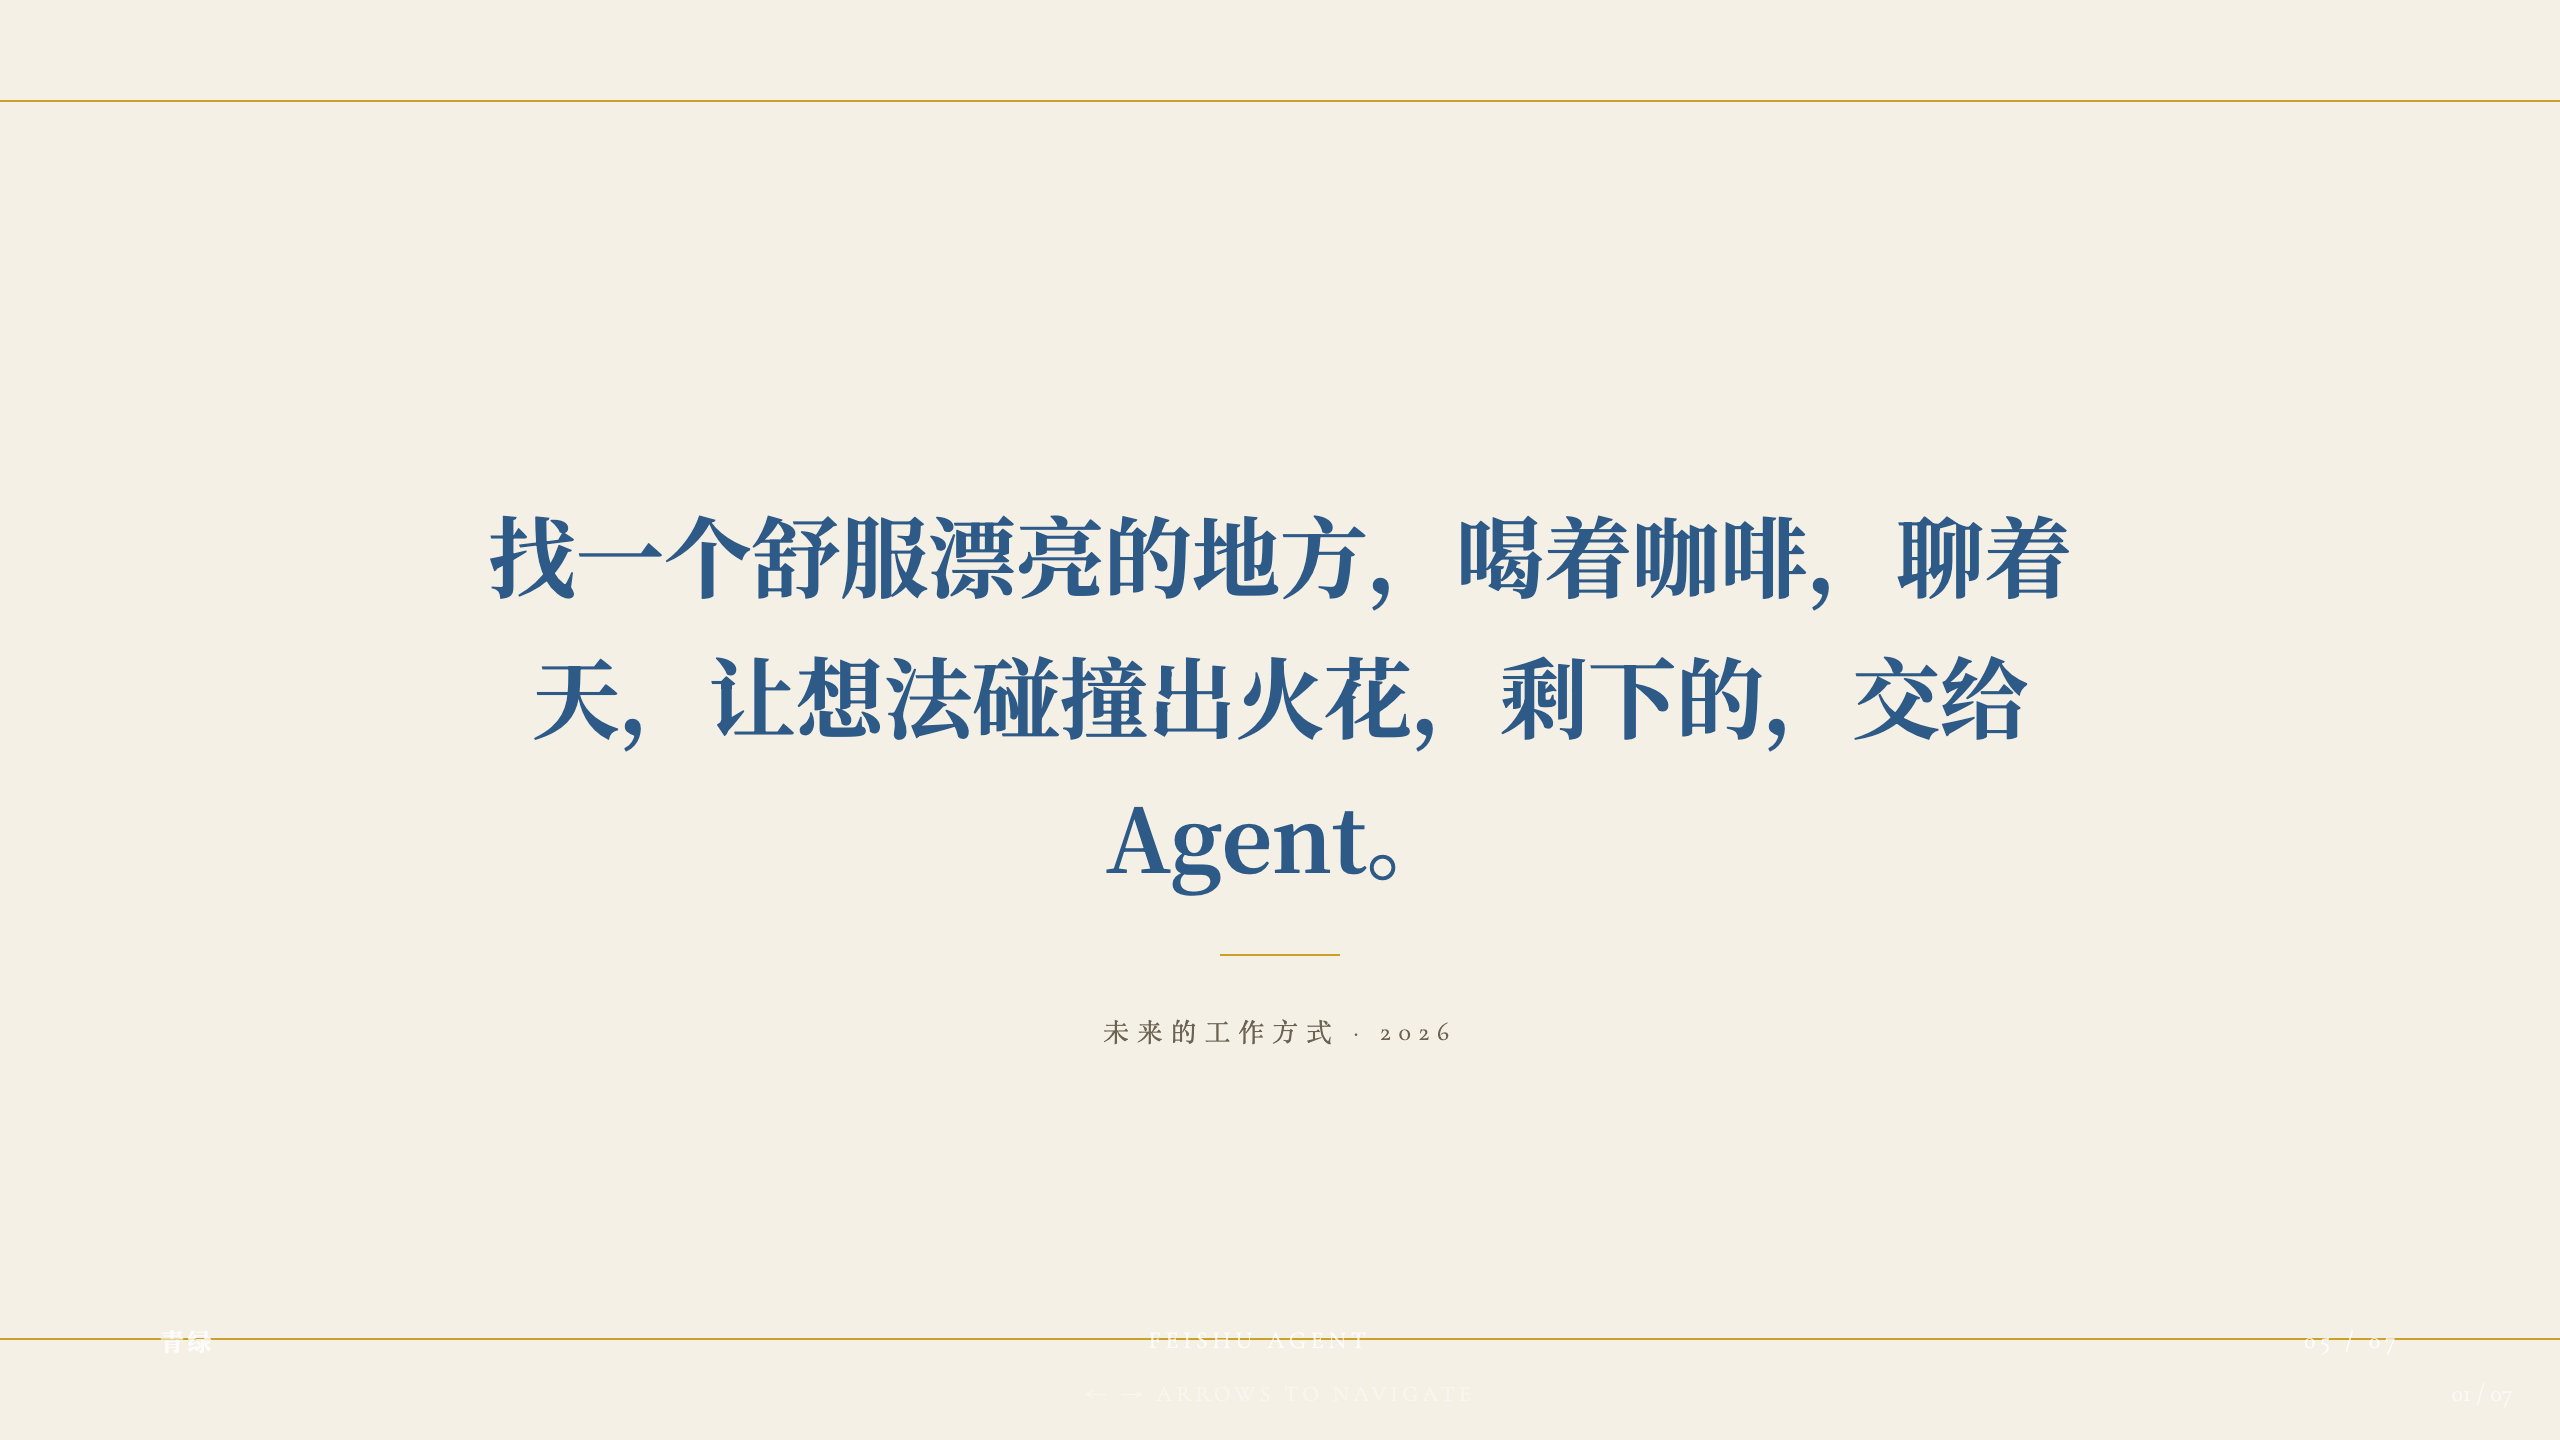
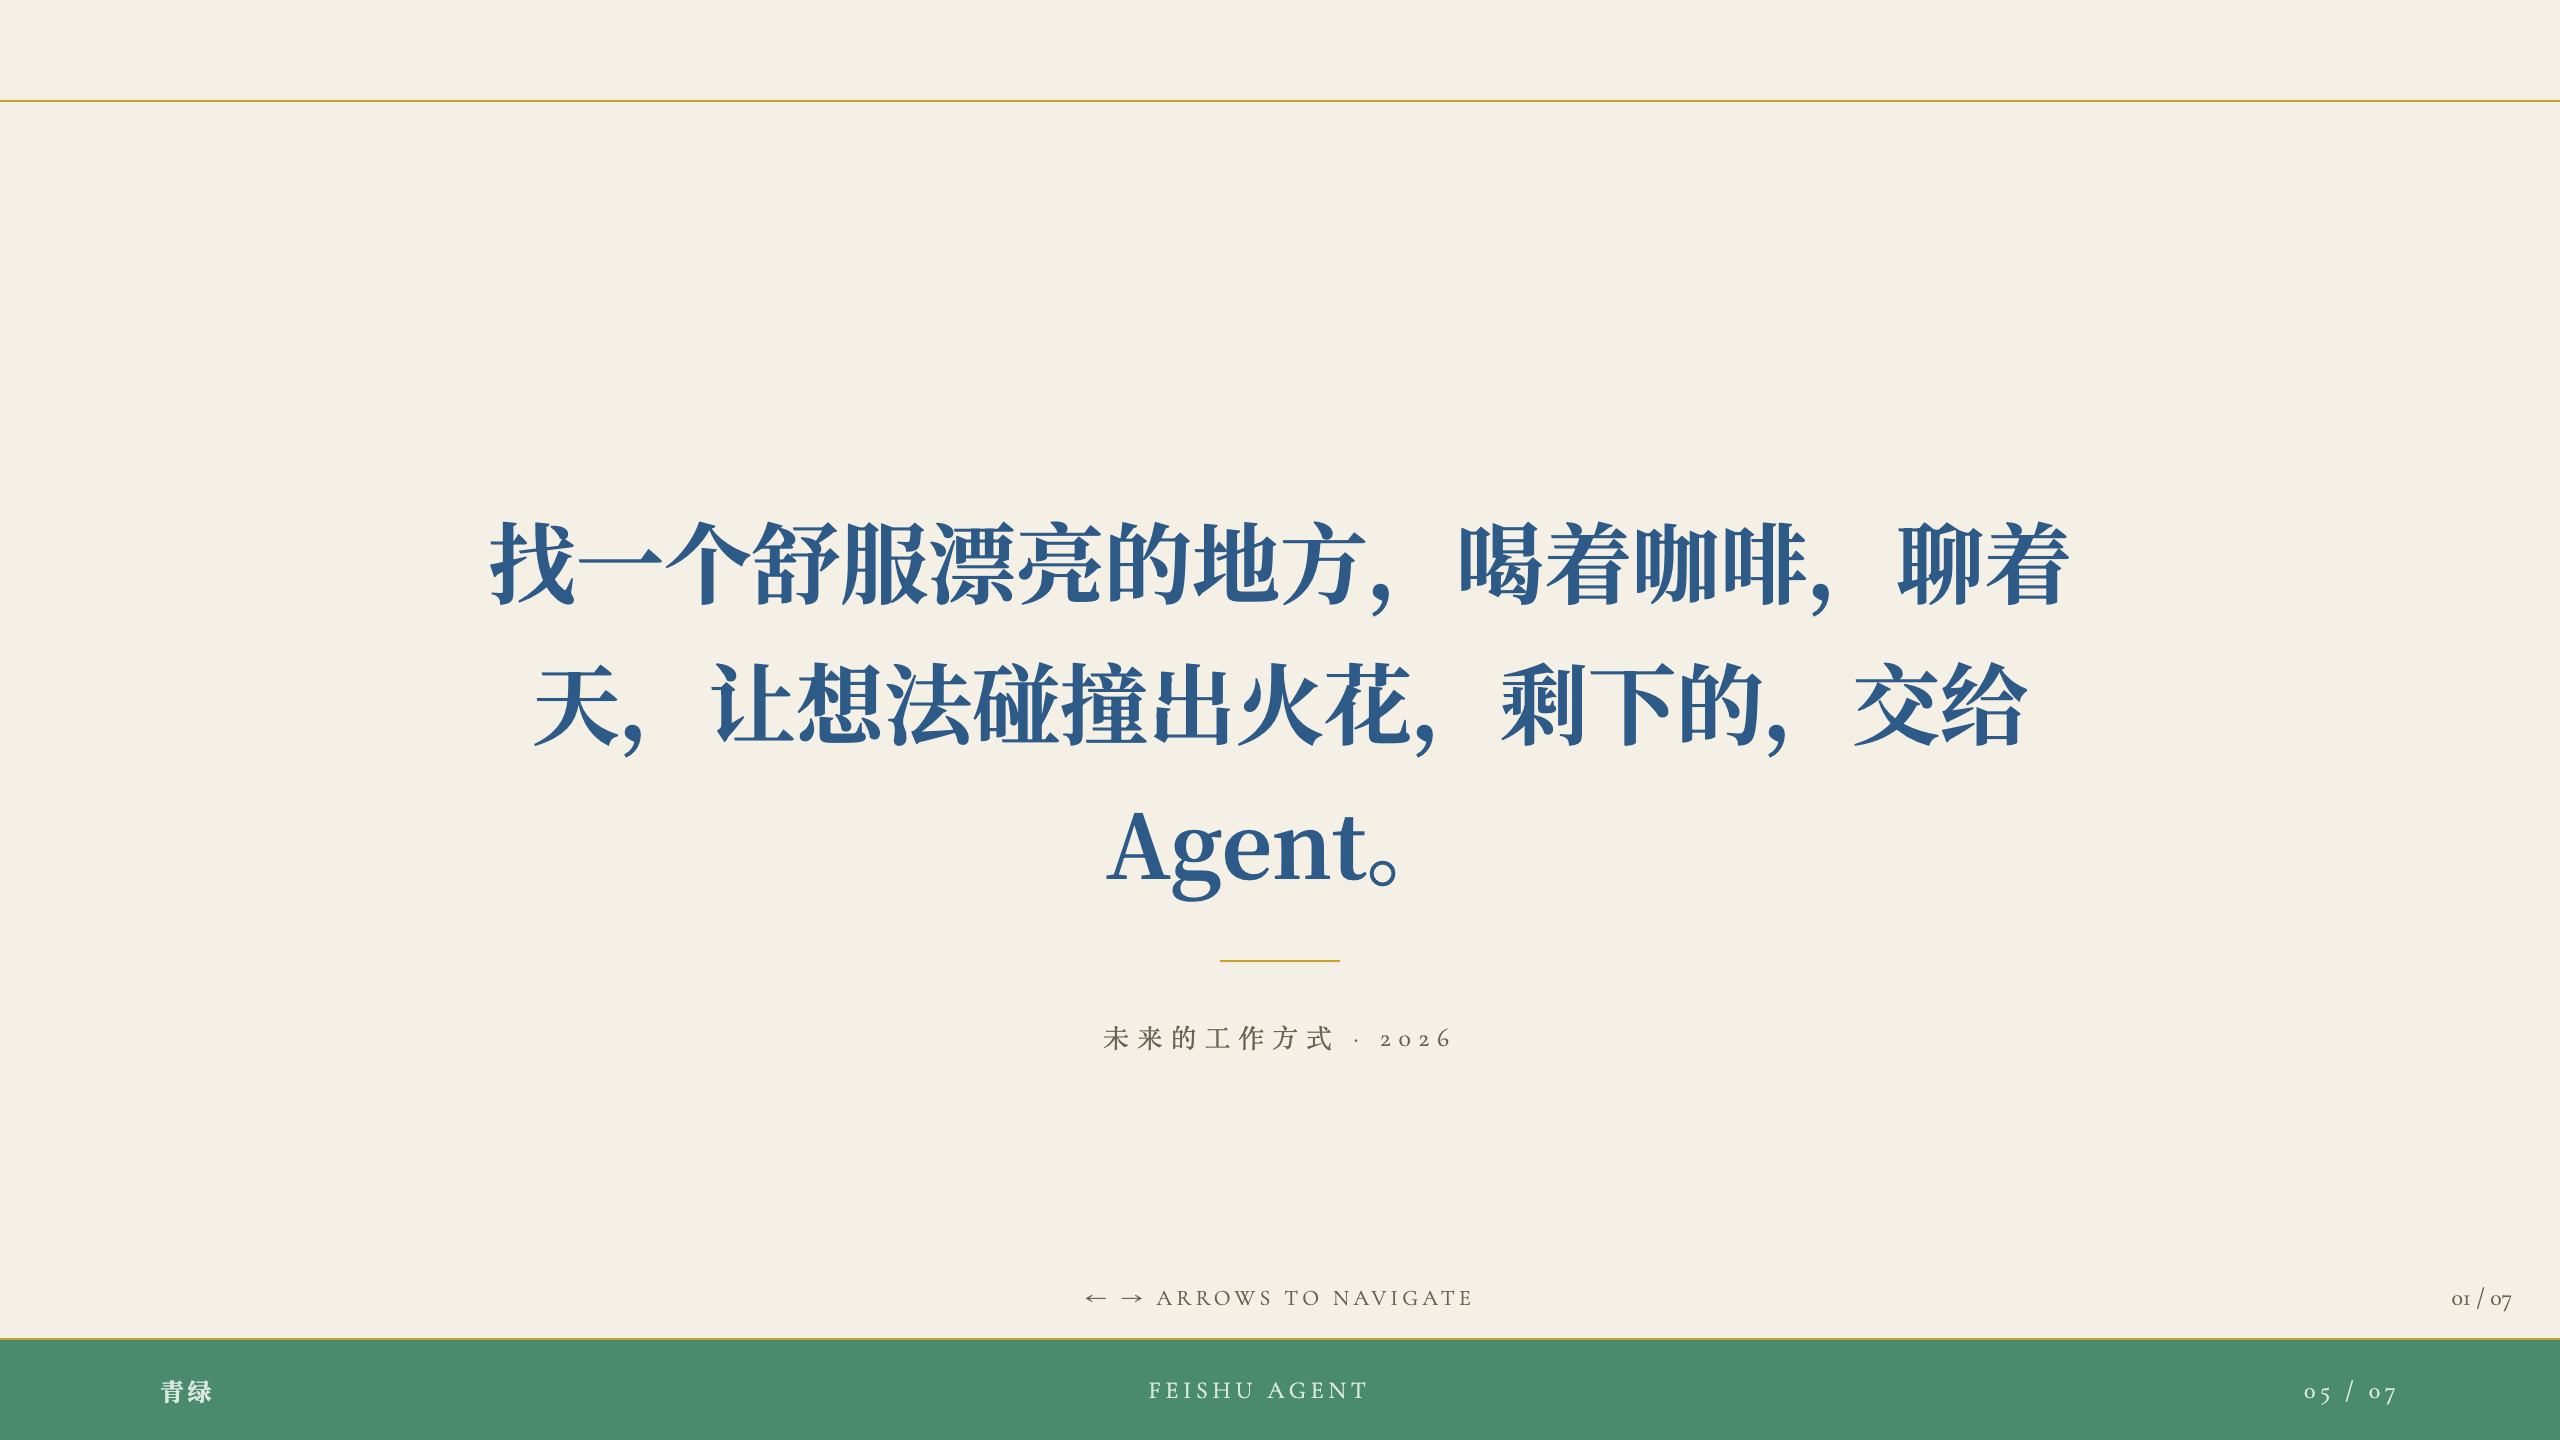
fix: mineral-strata quote slide missing green bottom-band
Quote slide had the bottom-band div in HTML but no CSS rule defining
position/background, so the 50px green band never rendered and white
footer text sat invisible on the cream background. Added:
- .quote-slide .bottom-band CSS (50px malachite)
- .quote-slide .footer height: 50px
- .quote-slide .content-area padding 72px 80px 70px
- quote-slide to nav-hint :has() selector

diff --git a/examples/feishu-agent/15-mineral-strata.html b/examples/feishu-agent/15-mineral-strata.html
@@ -52,7 +52,7 @@
   .footer .cn { font-family: var(--font-cn); font-weight: 700; letter-spacing: 0.15em; }
   /* Footer height matches bottom-band height per slide type */
   .section-slide .footer { height: 60px; }
-  .content-slide .footer, .two-col .footer, .data-slide .footer { height: 50px; }
+  .content-slide .footer, .two-col .footer, .data-slide .footer, .quote-slide .footer { height: 50px; }
 
   .label { font-family: var(--font-en); font-size: 12px; letter-spacing: 0.35em; text-transform: uppercase; color: var(--gold); font-weight: 600; }
   .label-cn { font-family: var(--font-cn); font-size: 13px; color: var(--azurite); font-weight: 700; letter-spacing: 0.1em; }
@@ -121,7 +121,8 @@
   .two-col .col.b .stat { color: var(--azurite); }
 
   /* Quote */
-  .quote-slide .content-area { justify-content: center; align-items: center; text-align: center; }
+  .quote-slide .bottom-band { position: absolute; bottom: 0; left: 0; right: 0; height: 50px; background: var(--malachite); z-index: 0; }
+  .quote-slide .content-area { padding: 72px 80px 70px; justify-content: center; align-items: center; text-align: center; }
   .quote-slide blockquote { font-family: var(--font-cn); font-size: 44px; font-weight: 700; line-height: 1.6; color: var(--azurite); max-width: 860px; }
   .quote-slide blockquote .gold-text { color: var(--gold); }
   .quote-slide cite { display: block; margin-top: 28px; font-family: var(--font-en); font-size: 13px; letter-spacing: 0.3em; text-transform: uppercase; color: var(--muted); font-style: normal; }
@@ -158,7 +159,8 @@
   .deck:has(.section-slide.active) .nav-hint, .deck:has(.section-slide.active) .counter,
   .deck:has(.content-slide.active) .nav-hint, .deck:has(.content-slide.active) .counter,
   .deck:has(.two-col.active) .nav-hint, .deck:has(.two-col.active) .counter,
-  .deck:has(.data-slide.active) .nav-hint, .deck:has(.data-slide.active) .counter { bottom: 64px; color: var(--muted); }
+  .deck:has(.data-slide.active) .nav-hint, .deck:has(.data-slide.active) .counter,
+  .deck:has(.quote-slide.active) .nav-hint, .deck:has(.quote-slide.active) .counter { bottom: 64px; color: var(--muted); }
 
     /* CJK readability fixes */
     h1, h2, h3, h4 { line-height: 1.2; }

diff --git a/templates/15-mineral-strata/example.html b/templates/15-mineral-strata/example.html
@@ -51,7 +51,7 @@
   .footer .cn { font-family: var(--font-cn); font-weight: 700; letter-spacing: 0.15em; }
   /* Footer height matches bottom-band height per slide type */
   .section-slide .footer { height: 60px; }
-  .content-slide .footer, .two-col .footer, .data-slide .footer { height: 50px; }
+  .content-slide .footer, .two-col .footer, .data-slide .footer, .quote-slide .footer { height: 50px; }
 
   .label { font-family: var(--font-en); font-size: 12px; letter-spacing: 0.35em; text-transform: uppercase; color: var(--gold); font-weight: 600; }
   .label-cn { font-family: var(--font-cn); font-size: 13px; color: var(--azurite); font-weight: 700; letter-spacing: 0.1em; }
@@ -120,7 +120,8 @@
   .two-col .col.b .stat { color: var(--azurite); }
 
   /* Quote */
-  .quote-slide .content-area { justify-content: center; align-items: center; text-align: center; }
+  .quote-slide .bottom-band { position: absolute; bottom: 0; left: 0; right: 0; height: 50px; background: var(--malachite); z-index: 0; }
+  .quote-slide .content-area { padding: 72px 80px 70px; justify-content: center; align-items: center; text-align: center; }
   .quote-slide blockquote { font-family: var(--font-cn); font-size: 44px; font-weight: 700; line-height: 1.6; color: var(--azurite); max-width: 860px; }
   .quote-slide blockquote .gold-text { color: var(--gold); }
   .quote-slide cite { display: block; margin-top: 28px; font-family: var(--font-en); font-size: 13px; letter-spacing: 0.3em; text-transform: uppercase; color: var(--muted); font-style: normal; }
@@ -157,7 +158,8 @@
   .deck:has(.section-slide.active) .nav-hint, .deck:has(.section-slide.active) .counter,
   .deck:has(.content-slide.active) .nav-hint, .deck:has(.content-slide.active) .counter,
   .deck:has(.two-col.active) .nav-hint, .deck:has(.two-col.active) .counter,
-  .deck:has(.data-slide.active) .nav-hint, .deck:has(.data-slide.active) .counter { bottom: 64px; color: var(--muted); }
+  .deck:has(.data-slide.active) .nav-hint, .deck:has(.data-slide.active) .counter,
+  .deck:has(.quote-slide.active) .nav-hint, .deck:has(.quote-slide.active) .counter { bottom: 64px; color: var(--muted); }
 
     /* CJK readability fixes */
     h1, h2, h3, h4 { line-height: 1.2; }
